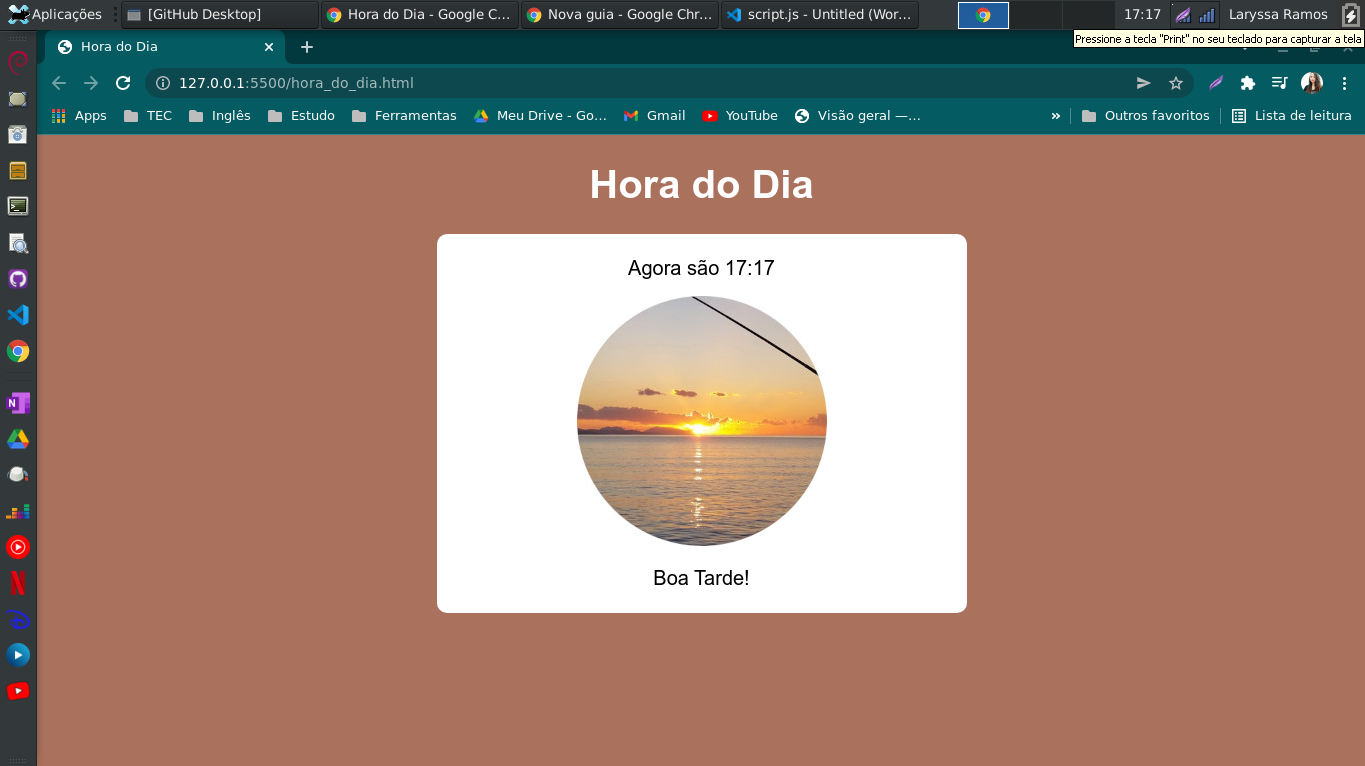
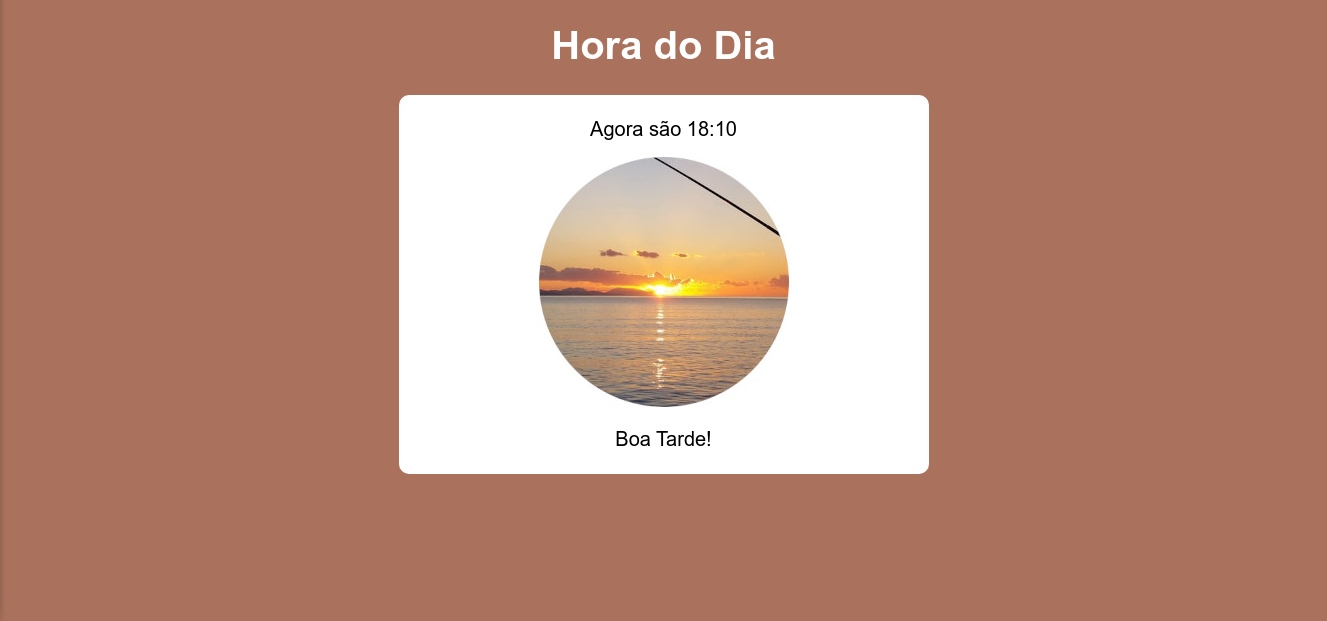
update

diff --git a/script.js b/script.js
@@ -3,7 +3,7 @@ function carregar(){
     var msg = window.document.getElementById('msg')
     var img = window.document.getElementById('imagem')
     var data = new Date()
-    var hora =  data.getHours()
+    var hora =  20
     var min = data.getMinutes()
     msg.innerHTML = `Agora são ${hora}:${min}`
     
